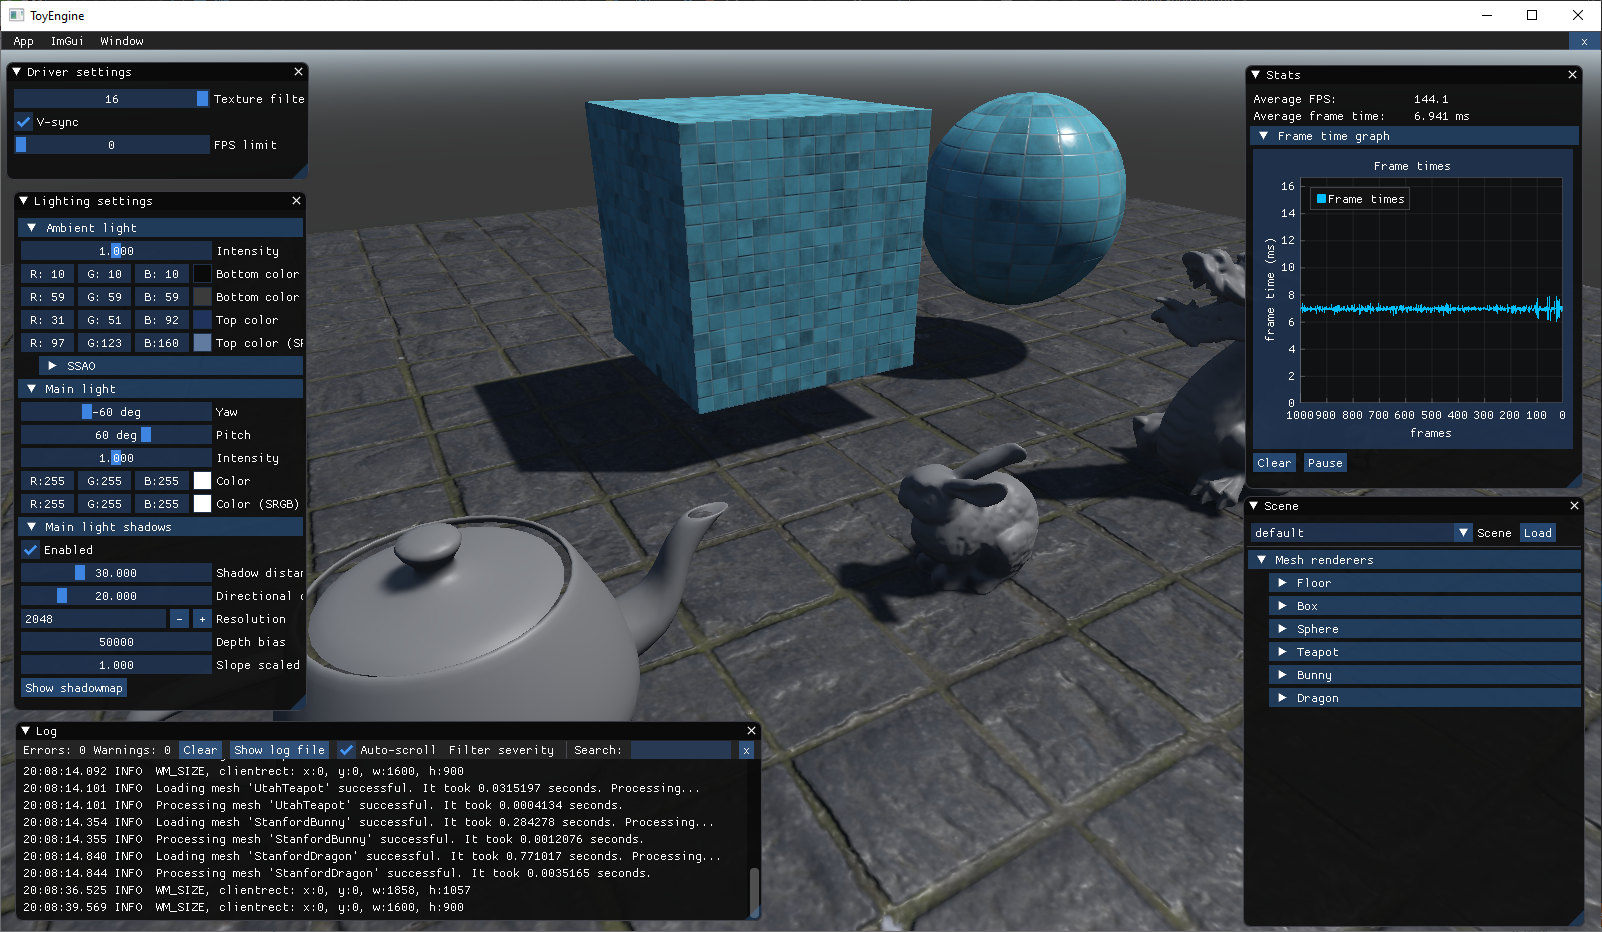
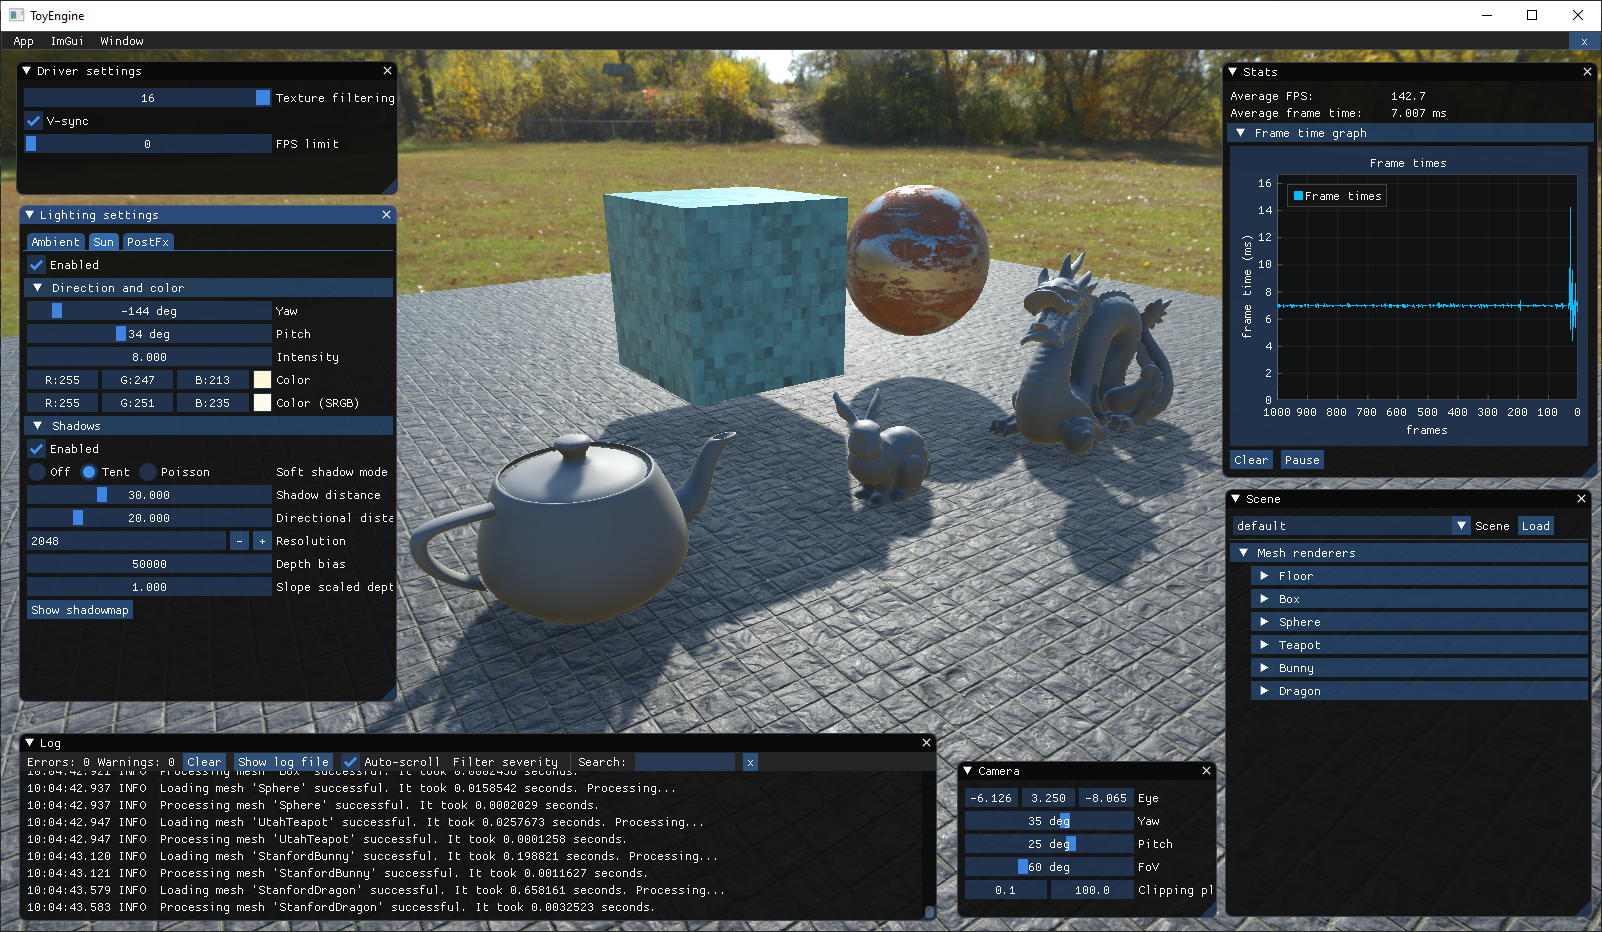
!U updated readme.md + images

diff --git a/README.md b/README.md
@@ -1,20 +1,23 @@
 # ToyEngine
-My attempt at a minimalistic D3D11 playground
+My attempt at a minimalistic graphics playground built from scratch with D3D11
 
 ## Features
 - Graphics API abstraction
 - Loading .obj models and .mtl material files
-- Loading .png textures
+- Loading textures
+- Profile markers
 - Dear ImGui support for convenient debug tooling
 - Minimalistic support for multi-compiling shader variants
-- Small scene with few objects
-- Sponza scene
+- Support for different scenes
+- HDR + Tonemapping
 - PBR direct lighting
-- Super simple ambient lighting (top color + bottom color) ...for now
+- PBR indirect lighting (image-based diffuse + specular)
+- Soft shadows (2 types: simple sampling tent, variable penumbra poisson)
 - Super simple procedural sky (top color, horizon color and bottom color) ...for now
 - HBAO
 
 ## Screenshots
 
 ![Small scene](Images/DefaultScene.png "Small scene")
+![PBR test scene](Images/PbrTestScene.png "PBR test scene")
 ![Sponza scene](Images/SponzaScene.png "Sponza scene")
